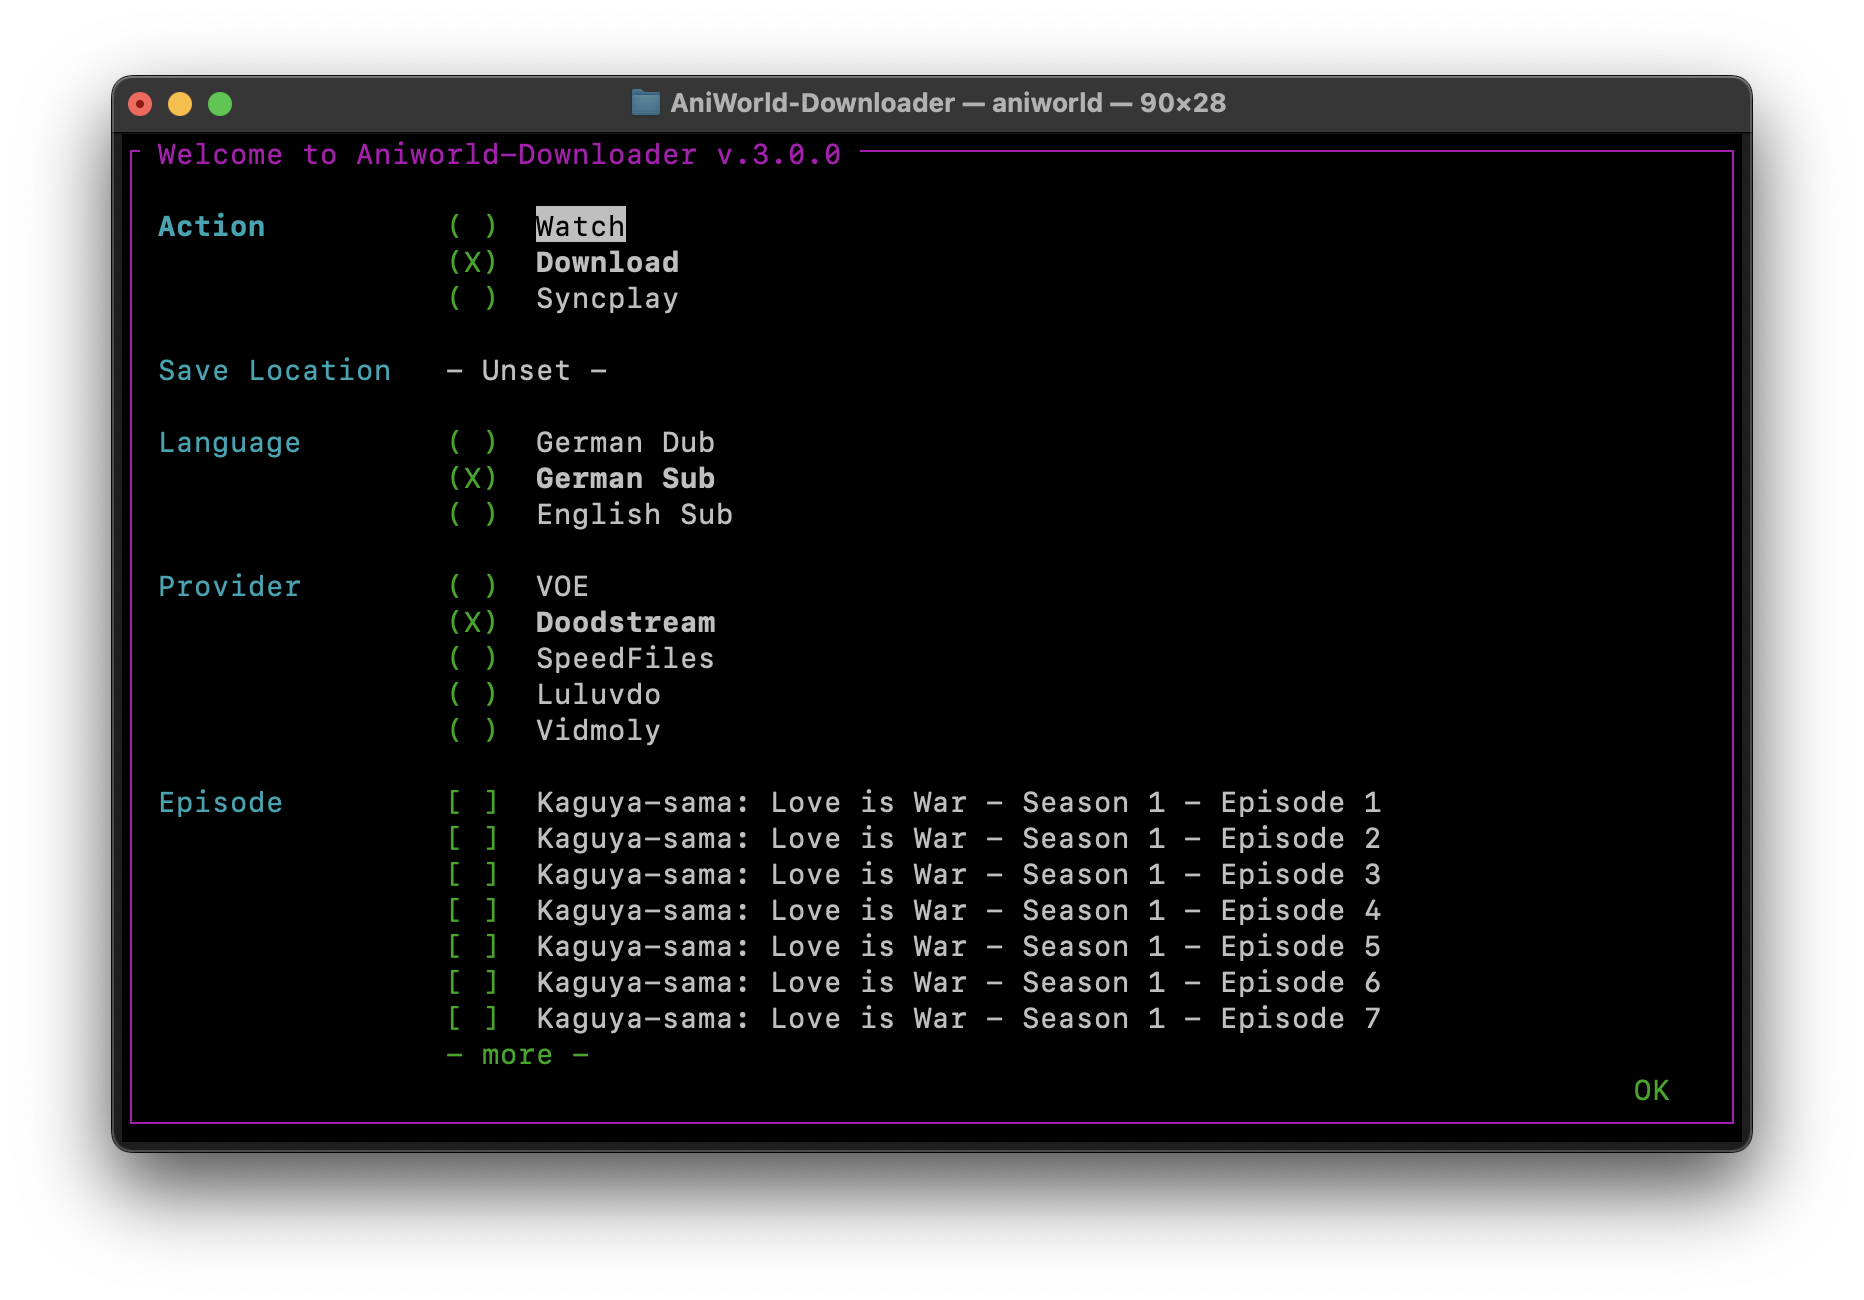
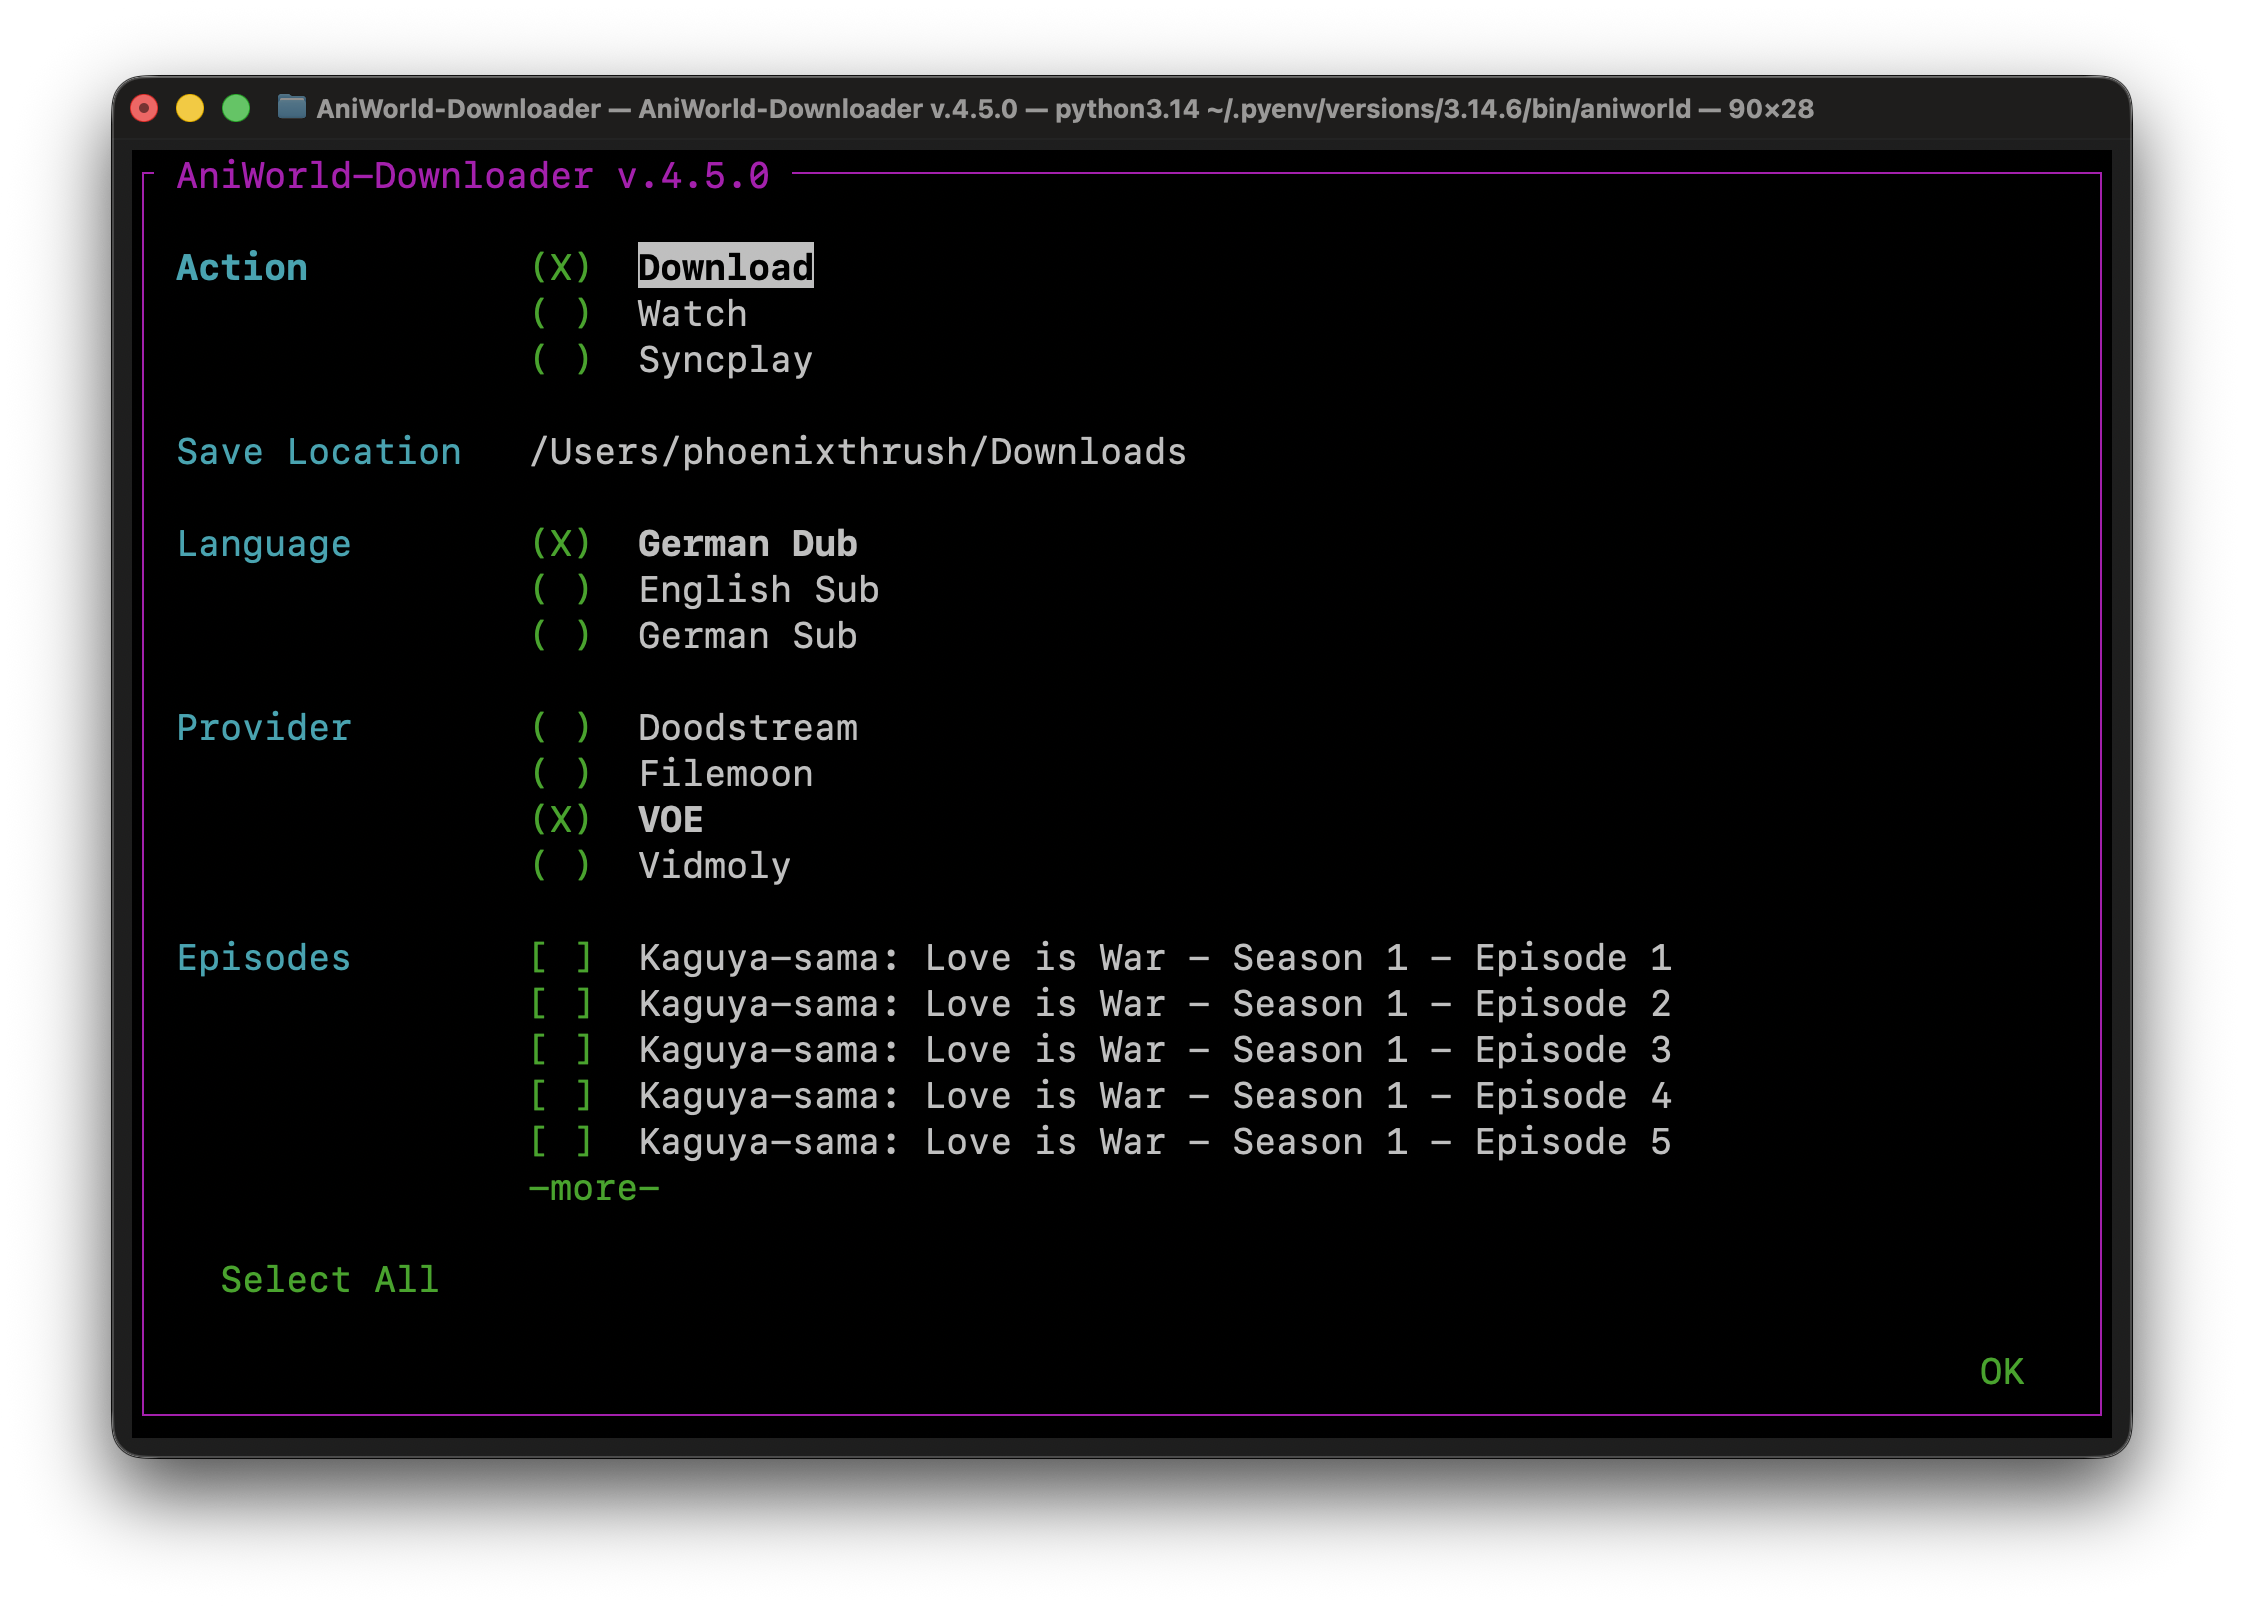
display formatted episode names in episode list & fix default save location in menu

Changed region(s): [[0.0311, 0.0308, 0.9646, 0.9538], [0.2178, 0.4308, 0.7468, 0.8308], [0.2178, 0.2769, 0.529, 0.4]]

diff --git a/src/aniworld/menu.py b/src/aniworld/menu.py
@@ -57,6 +57,36 @@ def _extract_menu_providers(provider_data: dict) -> list[str]:
     return sorted(provider_names)
 
 
+def _format_menu_episode_label(series_title: str, season, episode) -> str:
+    season_number = getattr(season, "season_number", None)
+    episode_number = getattr(episode, "episode_number", None)
+    are_movies = getattr(season, "are_movies", False)
+
+    if are_movies or season_number == 0:
+        item_label = (
+            f"Movie {episode_number}" if episode_number is not None else "Movie"
+        )
+    else:
+        season_label = (
+            f"Season {season_number}" if season_number is not None else "Season ?"
+        )
+        episode_label = (
+            f"Episode {episode_number}" if episode_number is not None else "Episode ?"
+        )
+        item_label = f"{season_label} - {episode_label}"
+
+    if series_title:
+        return f"{series_title} - {item_label}"
+
+    return getattr(episode, "url", str(episode))
+
+
+def _selected_episode_urls(
+    selected_indices: list[int] | None, episode_urls: list[str]
+) -> list[str]:
+    return [episode_urls[index] for index in (selected_indices or [])]
+
+
 # ============================================================
 # Patch: Fix for Python 3.14+ buffer overflow in npyscreen
 # ============================================================
@@ -173,16 +203,23 @@ class MenuApp(npyscreen.NPSApp):
 
         languages = []
         providers = []
-        episodes = []
+        episode_urls = []
+        episode_labels = []
 
         # Only use the first season and first episode for language/provider info
         first_season = series.seasons[0]
         first_episode = first_season.episodes[0]
+        series_title = getattr(series, "title", None) or getattr(
+            series, "title_cleaned", ""
+        )
 
         # All episode URLs
         for season in series.seasons:
             for episode in season.episodes:
-                episodes.append(episode.url)
+                episode_urls.append(episode.url)
+                episode_labels.append(
+                    _format_menu_episode_label(series_title, season, episode)
+                )
 
         # Extract language/provider options from provider_data
         provider_data_dict = (
@@ -227,8 +264,7 @@ class MenuApp(npyscreen.NPSApp):
         path = F.add(
             npyscreen.TitleFilenameCombo,
             name="Save Location",
-            value=Path(os.getenv("ANIWORLD_DOWNLOAD_PATH")).resolve()
-            or (Path("/app/Downloads") if is_docker else Path.home() / "Downloads"),
+            value=(Path("/app/Downloads") if is_docker else Path.home() / "Downloads"),
             rely=y + 4,
             max_height=2,
         )
@@ -301,7 +337,7 @@ class MenuApp(npyscreen.NPSApp):
         episodes_widget = F.add(
             npyscreen.TitleMultiSelect,
             name="Episodes",
-            values=episodes,
+            values=episode_labels,
             rely=episodes_rely,
             max_height=max_episode_height,
             scroll_exit=True,
@@ -318,11 +354,13 @@ class MenuApp(npyscreen.NPSApp):
         )
 
         def toggle_select_all():
-            if len(episodes_widget.value) == len(episodes):
+            selected_indices = episodes_widget.value or []
+
+            if len(selected_indices) == len(episode_urls):
                 episodes_widget.value = []
                 select_all_button.name = "Select All"
             else:
-                episodes_widget.value = list(range(len(episodes)))
+                episodes_widget.value = list(range(len(episode_urls)))
                 select_all_button.name = "Deselect All"
             F.display()
 
@@ -363,11 +401,7 @@ class MenuApp(npyscreen.NPSApp):
             if provider.get_selected_objects()
             else None
         )
-        selected_episodes = (
-            [episodes_widget.values[i] for i in episodes_widget.value]
-            if episodes_widget.value
-            else []
-        )
+        selected_episodes = _selected_episode_urls(episodes_widget.value, episode_urls)
 
         # --- Return and print ---
         self.result = {

diff --git a/README.md b/README.md
@@ -42,7 +42,7 @@ aniworld -w
 
 This project is actively being improved. Current work in progress includes:
 
-- [ ] CLI: show the formatted episode name in the episode list instead of only the url, and show "Save Location" instead of "Path" (also make it absolute)
+- [ ] fix episode download cleanup on KeyboardInterrupt in menu
 - [ ] add support for aniskip feature on IINA
 - [ ] Split Web UI SSO dependencies into separate `extras` section
 - [ ] Implement `keep-watching` argument for continuous playback